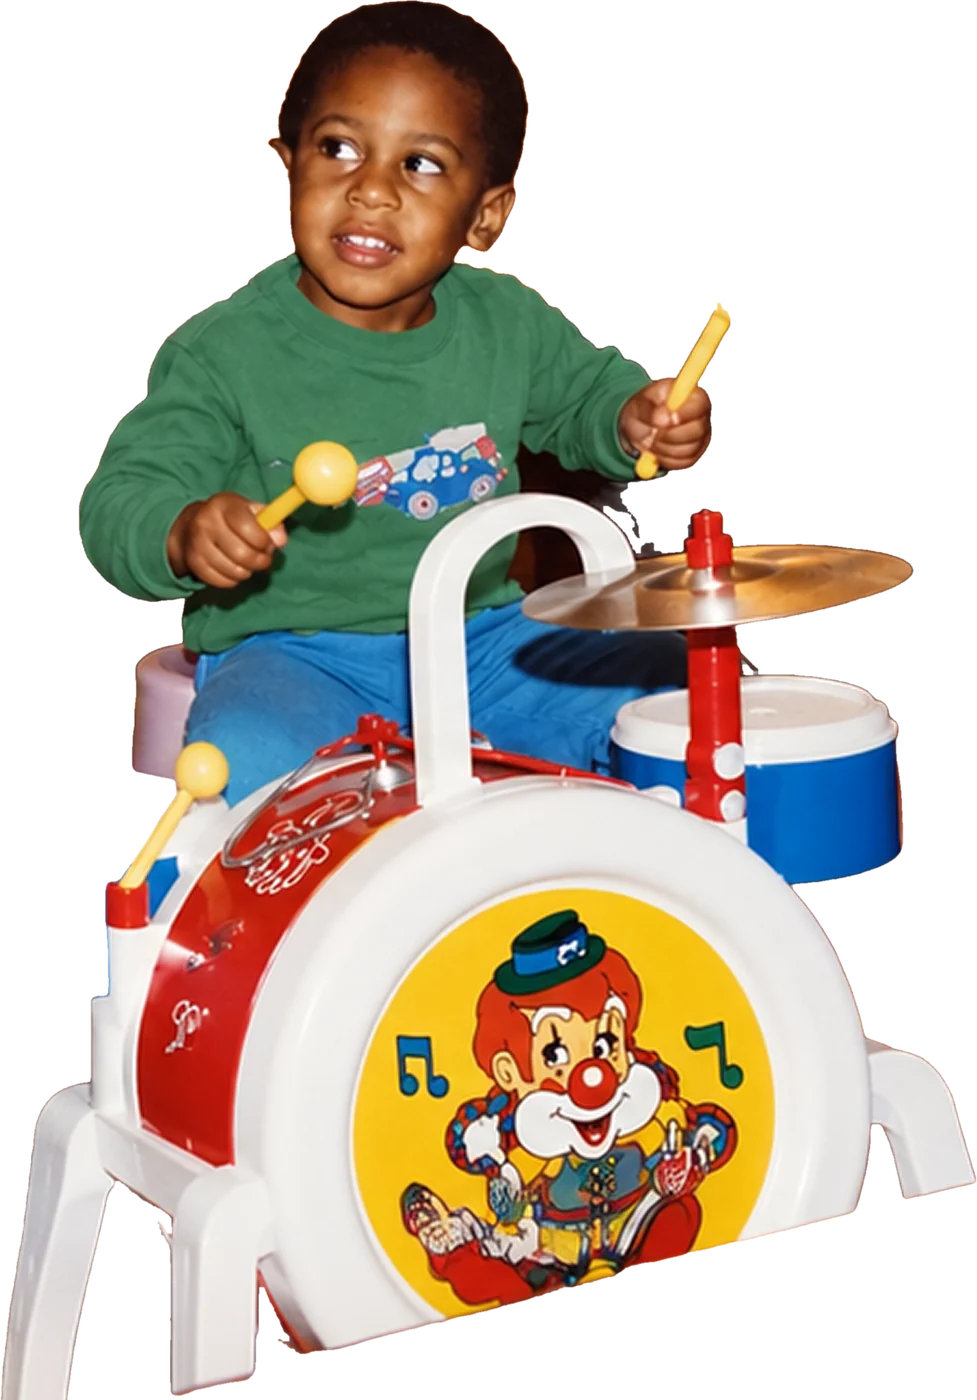
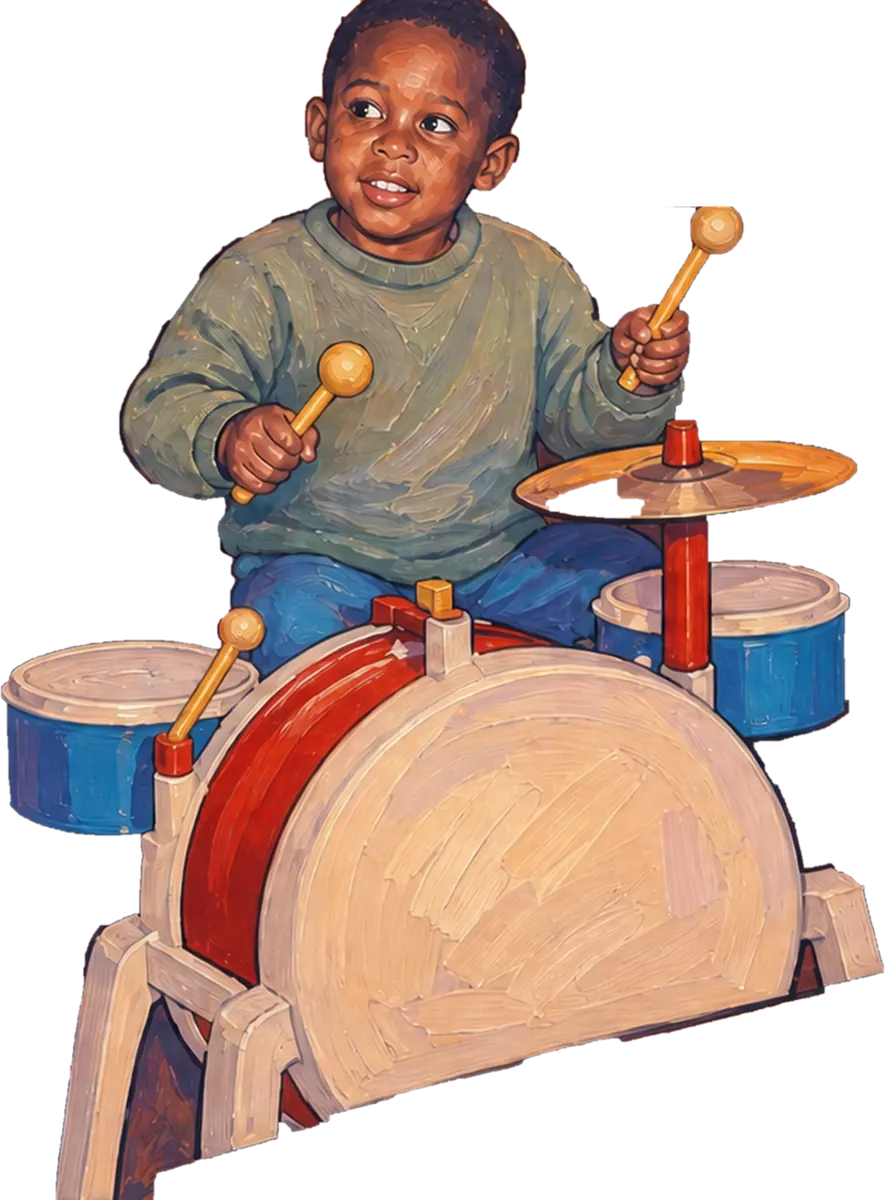
Chapter 1 is just the kid panel with the new copy; painted art; lighter images
- Chapter 1 drops its two full-screen scenes (new `fullScreen: false`) and keeps
  "The kid who kept the beat", now with the intro and resolution copy and a
  cutout of the boy and his toy drum set from the painted playroom.
- Chapter 2's Snug Harbor stage is the painted version.
- Flat panel bodies can hold several paragraphs.
- Images: instrument PNGs become WebP (1.07 MB to 81 KB), the theater and
  piano JPEGs are re-encoded in place, the bus is sized to how it shows.
- Unused chapter 1 photo credits removed.

diff --git a/src/content.config.ts b/src/content.config.ts
@@ -24,6 +24,8 @@ const sections = defineCollection({
     // A chapter as full-screen scenes in order (intro, resolution), each a background photo and its copy.
     // photo: an Unsplash photo id, credited in src/data/credits.json. Without scenes the section shows its body copy.
     scenes: z.array(z.object({ text: z.string(), photo: z.string().optional() })).default([]),
+    // false: the chapter is only its flat panel, with no full-screen scene before it.
+    fullScreen: z.boolean().default(true),
     // Full-screen scene behind the section's first panel. Without one, the placeholder photo in index.astro shows.
     background: z.string().optional(),
     // Each chapter is two panels: the full-screen scene, then a flat neutral panel with a cutout and text.

diff --git a/src/content/sections/section-1.md b/src/content/sections/section-1.md
@@ -7,21 +7,21 @@ directives:
   - "Accuracy: approximate. Jon played with the Batiste Brothers from age eight and started piano at eleven"
   - "Quote TBD: needs a line that fits the drums-to-piano story"
 interaction: "Collect the snare drum, the seat he started in. Takeaway TBD."
-caption: Kenner, mid-1990s
-scenes:
-  # Intro. Placeholder photo, same as before.
-  - photo: 1635352934507-cd4ad73275c6
-    text: "Kenner sits out by the airport, where the planes come in low enough to rattle the dishes. Jon Batiste's father has 7 brothers, which makes for a lot of Batistes and a lot of drums. By 8 Jon is the youngest drummer in the family band and already keeping time at Jazz Fest."
-  # Resolution. Placeholder photo, same as Listen.
-  - photo: 1560110734-f03640ca8eda
-    text: "His mother isn't a musician but she can hear a drum too many. So she moves Jon to the piano, the instrument Duke Ellington led his orchestra from. Mothers around here are usually right."
+caption: Kenner, Louisiana, mid-1990s
+# Only the flat panel: the two full-screen scenes (the Kenner intro and his mother) were cut.
+fullScreen: false
 flat:
   heading: The kid who kept the beat
-  body: Before the piano there were drums. In a family full of drummers, he starts out keeping time, and from age eight he plays percussion with the Batiste Brothers.
+  body: |
+    Kenner, LA sits out by the airport, where the planes come in low enough to rattle the dishes. Jon Batiste's father has 7 brothers, which makes for a lot of Batistes and a lot of drums. At 8 Jon is the youngest drummer in the family band and is already keeping time at Jazz Fest.
+
+    His mother hears one drum too many. So she moves Jon to the piano–the one from Duke Ellington's orchestra. Mothers around here are usually right.
   cutout:
     src: /chapter-1/jon-drums.webp
-    alt: A small boy in a green sweater playing a toy drum set
+    alt: Painting of a small boy in a green sweater playing a toy drum set
+  caption: Kenner, Louisiana, mid-1990s
   notes:
-    - "Photo: confirm the source and licence, and whether it's Jon, before the alt text or caption names him."
-    - "Cutout lost the head of the raised mallet and the small left tom; touch up in Photoshop if it shows."
+    - "Painting: confirm it's cleared for use before the alt text or caption names Jon."
 ---
+
+One drummer too many. He's eight, keeping time on stage with the Batiste Brothers, the youngest cousin in a family already full of drummers. His mother moves him to the piano, the conductor and composer's instrument, the one Duke Ellington played. He takes to it, and the kid who kept the beat for everyone else starts a band of his own, the Batiste Kids, with his cousins.
